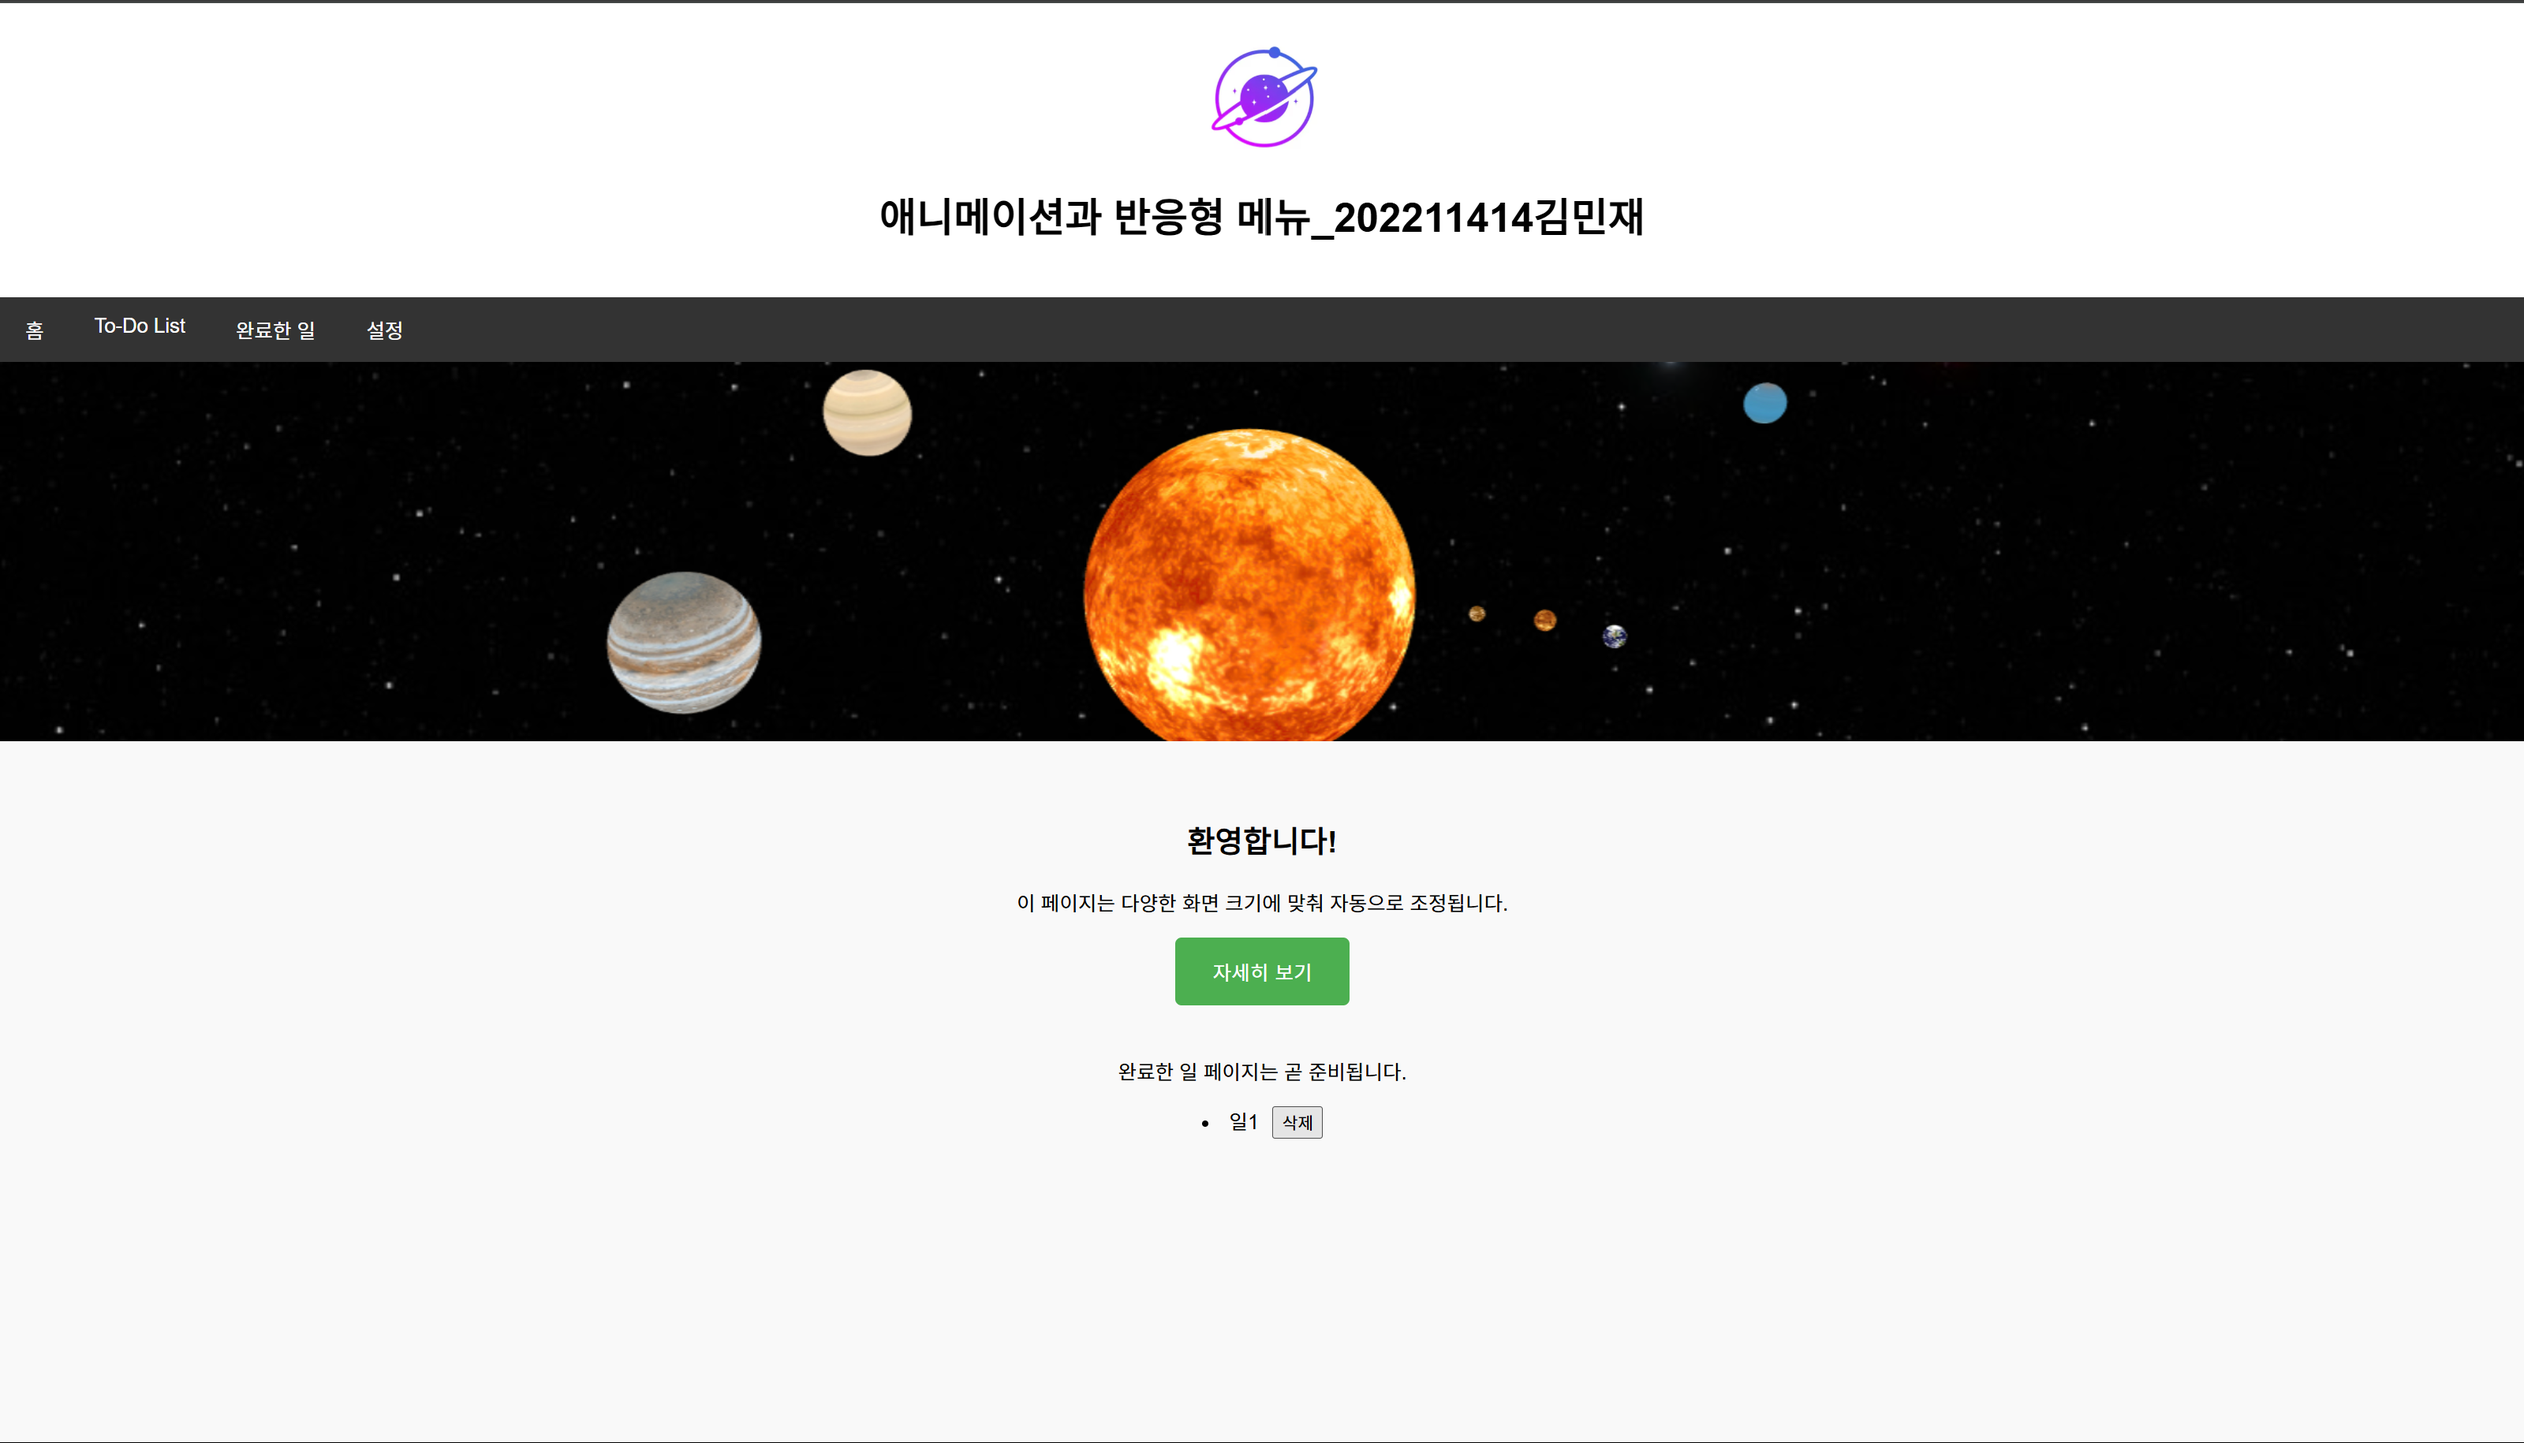
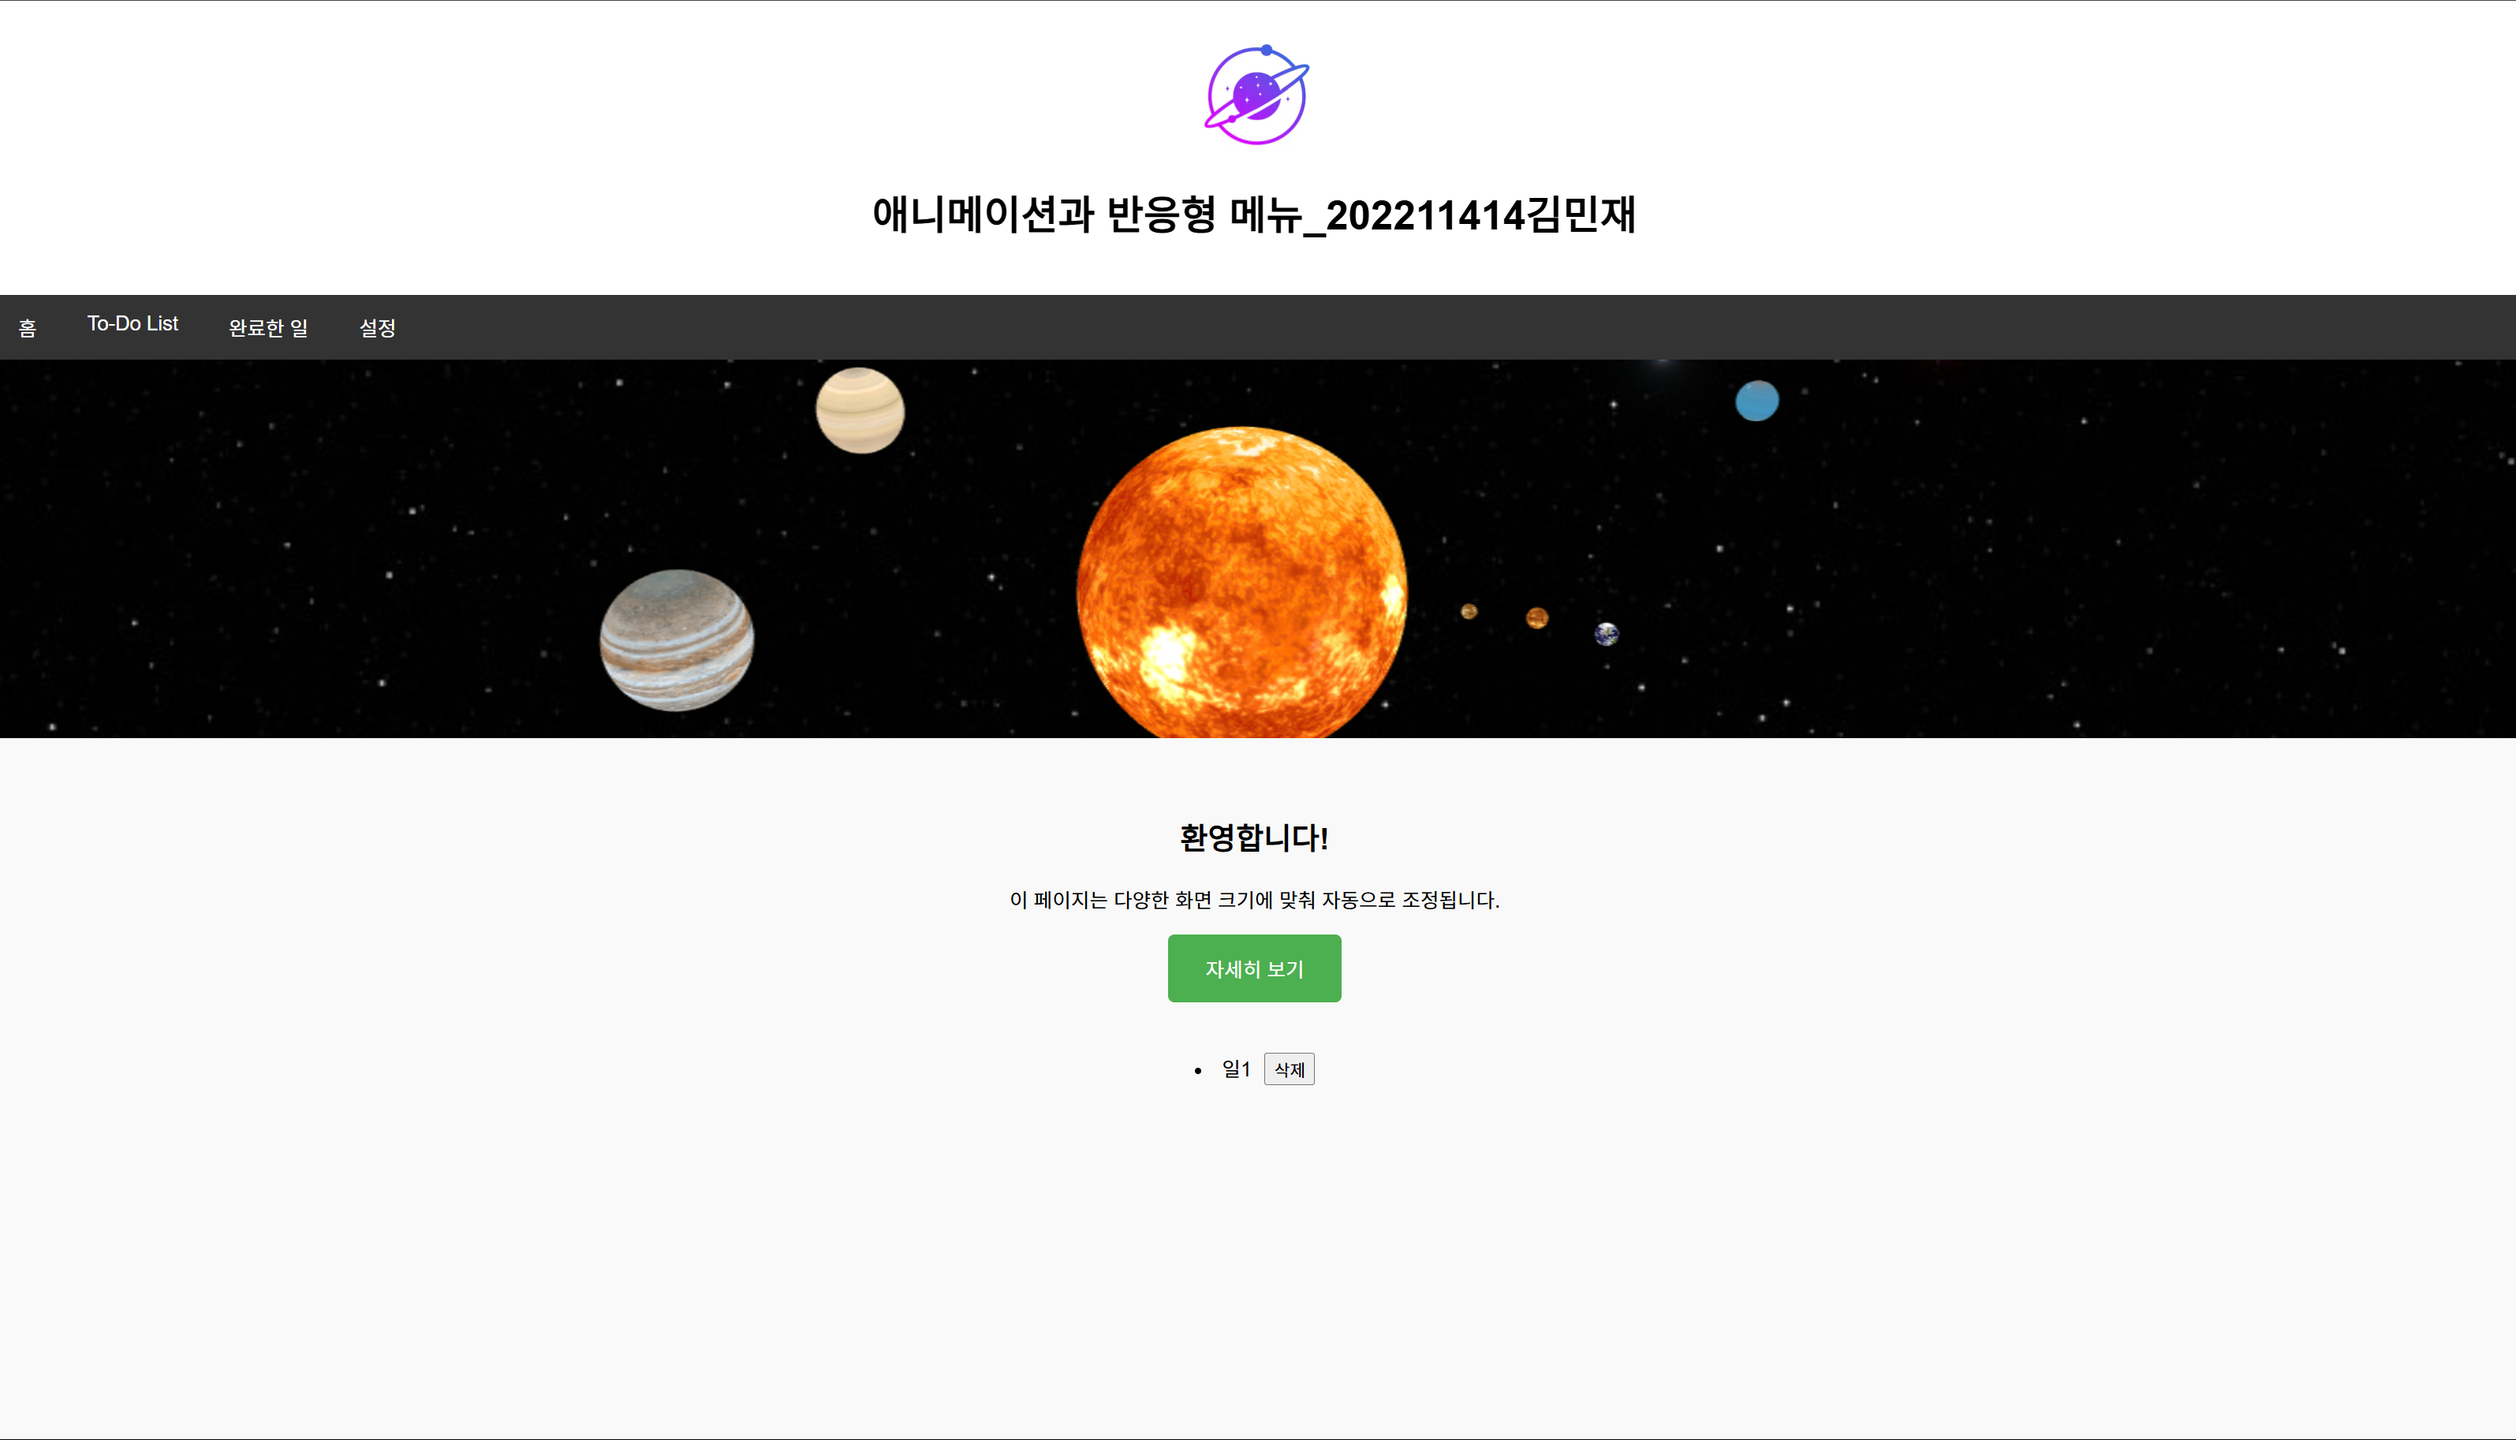
week6/kmj

diff --git a/kmj/week6/script.js b/kmj/week6/script.js
@@ -1,0 +1,75 @@
+function showAlert(event) {
+    event.preventDefault();
+    alert("아직 준비 중입니다.");
+}
+
+function addTodo() {
+    const input = document.querySelector('#todo-input');
+    const value = input.value.trim();
+    if (value === '') {
+        alert('할 일을 입력해주세요!');
+        return;
+    }
+
+    const li = document.createElement('li');
+    li.innerText = value;
+    li.style.margin = '10px 0';
+
+    const doneBtn = document.createElement('button');
+    doneBtn.innerText = '완료';
+    doneBtn.style.marginLeft = '10px';
+    doneBtn.onclick = function () {
+        addDone(value);
+        li.remove();
+    };
+
+    li.appendChild(doneBtn);
+    document.querySelector('#todo-list').appendChild(li);
+    input.value = '';
+}
+
+function addDone(text) {
+    const li = document.createElement('li');
+    li.innerText = text;
+    li.style.margin = '10px 0';
+    document.querySelector('#done-list').appendChild(li);
+}
+
+function showTab(event, tab) {
+    event?.preventDefault();
+
+    document.getElementById('todo-section').style.display = 'none';
+    document.getElementById('done-section').style.display = 'none';
+    document.getElementById('faq-section').style.display = 'none';
+    document.getElementById('other-section').style.display = 'none';
+
+    if (tab === 'todo') {
+        document.getElementById('todo-section').style.display = 'block';
+    } else if (tab === 'done') {
+        document.getElementById('done-section').style.display = 'block';
+    } else if (tab === 'settings') {
+        document.getElementById('faq-section').style.display = 'block';
+    } else {
+        document.getElementById('other-section').style.display = 'block';
+    }
+}
+
+// 🎞 이미지 슬라이더 (배너)
+const images = ["space.png", "space2.png", "space3.png"];
+let index = 0;
+setInterval(function () {
+    index = (index + 1) % images.length;
+    $(".slide-img").fadeOut(500, function () {
+        $(this).attr("src", images[index]).fadeIn(500);
+    });
+}, 3000);
+
+// 🧾 FAQ 아코디언 슬라이드
+$(document).ready(function () {
+    $('.faq-title').on('click', function () {
+        $(this).next('.faq-content').slideToggle();
+    });
+
+    // 초기 탭 설정 (To-Do 리스트 보여주기)
+    showTab(null, 'todo');
+});

diff --git a/kmj/week6/index.html b/kmj/week6/index.html
@@ -1,17 +1,16 @@
 <!DOCTYPE html>
 <html lang="ko">
-
 <head>
     <meta charset="UTF-8" />
     <meta name="viewport" content="width=device-width, initial-scale=1.0" />
-    <title>반응형 웹 과제</title>
+    <title>jQuery를 활용한 웹 과제</title>
     <link rel="stylesheet" href="style.css" />
+    <script src="https://code.jquery.com/jquery-3.6.0.min.js"></script> 
 </head>
-
 <body>
 
     <header>
-        <img src="spacelogo.png" alt="태극기" />
+        <img src="spacelogo.png" alt="고양이" />
         <h1>애니메이션과 반응형 메뉴_202211414김민재</h1>
     </header>
 
@@ -22,7 +21,9 @@
         <a href="#" onclick="showTab(event, 'settings')">설정</a>
     </nav>
 
-    <div class="banner"></div>
+    <div class="banner">
+        <img class="slide-img" src="space.png" style="width: 100%; height: 100%;" />
+    </div>
 
     <div class="content">
         <h2>환영합니다!</h2>
@@ -38,9 +39,28 @@
             <ul id="todo-list" style="list-style: none; padding: 0; margin-top: 20px;"></ul>
         </div>
 
-        <!-- 완료한 일/설정 클릭 시 안내 -->
+        <!-- 완료한 일 영역 -->
+        <div id="done-section" style="display: none; margin-top: 40px;">
+            <h3>✅ 완료한 일</h3>
+            <ul id="done-list" style="list-style: none; padding: 0;"></ul>
+        </div>
+
+        <!-- 기타 안내 영역 -->
         <div id="other-section" style="display: none; margin-top: 40px;">
-           
+            <p id="other-message">내용을 준비 중입니다.</p>
+        </div>
+
+        <!-- FAQ 아코디언 메뉴 -->
+        <div id="faq-section" style="display: none; margin-top: 40px;">
+            <h3>📘 자주 묻는 질문</h3>
+            <div class="faq">
+                <h4 class="faq-title">Q. 이 앱은 어떤 기능이 있나요?</h4>
+                <div class="faq-content">A. 할 일 등록, 완료 확인 등 다양한 기능을 지원합니다.</div>
+            </div>
+            <div class="faq">
+                <h4 class="faq-title">Q. jQuery는 왜 쓰나요?</h4>
+                <div class="faq-content">A. JavaScript를 더 간단하게 사용하기 위해서입니다.</div>
+            </div>
         </div>
     </div>
 

diff --git a/kmj/week6/style.css b/kmj/week6/style.css
@@ -1,0 +1,132 @@
+body {
+    margin: 0;
+    font-family: 'Arial', sans-serif;
+    background-color: #f9f9f9;
+}
+
+header {
+    background-color: white;
+    text-align: center;
+    padding: 20px;
+}
+
+header img {
+    max-width: 120px;
+    height: auto;
+    animation: fadeIn 1s ease;
+}
+
+nav {
+    background-color: #333;
+    overflow: hidden;
+}
+
+nav a {
+    float: left;
+    display: block;
+    color: white;
+    text-align: center;
+    padding: 14px 20px;
+    text-decoration: none;
+    transition: background-color 0.3s ease;
+}
+
+nav a:hover {
+    background-color: #575757;
+}
+
+.banner {
+    width: 100%;
+    height: 300px;
+    overflow: hidden;
+}
+
+.slide-img {
+    width: 100%;
+    height: 100%;
+    object-fit: cover;
+}
+
+.content {
+    text-align: center;
+    padding: 40px 20px;
+}
+
+.animated-button {
+    padding: 15px 30px;
+    font-size: 16px;
+    background-color: #4CAF50;
+    color: white;
+    border: none;
+    border-radius: 5px;
+    cursor: pointer;
+    transition: all 0.3s ease;
+}
+
+.animated-button:hover {
+    background-color: #388E3C;
+    transform: scale(1.1);
+}
+
+@keyframes fadeIn {
+    from {
+        opacity: 0;
+        transform: translateY(-20px);
+    }
+    to {
+        opacity: 1;
+        transform: translateY(0);
+    }
+}
+
+@keyframes slideIn {
+    from {
+        background-position: left;
+    }
+    to {
+        background-position: center;
+    }
+}
+
+.faq {
+    border: 1px solid #ccc;
+    margin: 10px 0;
+    border-radius: 5px;
+    overflow: hidden;
+}
+
+.faq-title {
+    background-color: #eee;
+    padding: 10px;
+    margin: 0;
+    cursor: pointer;
+}
+
+.faq-content {
+    display: none;
+    padding: 10px;
+    background-color: #f9f9f9;
+}
+
+@media (max-width: 768px) {
+    nav a {
+        float: none;
+        display: block;
+        text-align: left;
+    }
+
+    .banner {
+        height: 180px;
+    }
+}
+
+@media (max-width: 480px) {
+    .animated-button {
+        width: 100%;
+        font-size: 14px;
+    }
+
+    .banner {
+        height: 150px;
+    }
+}
